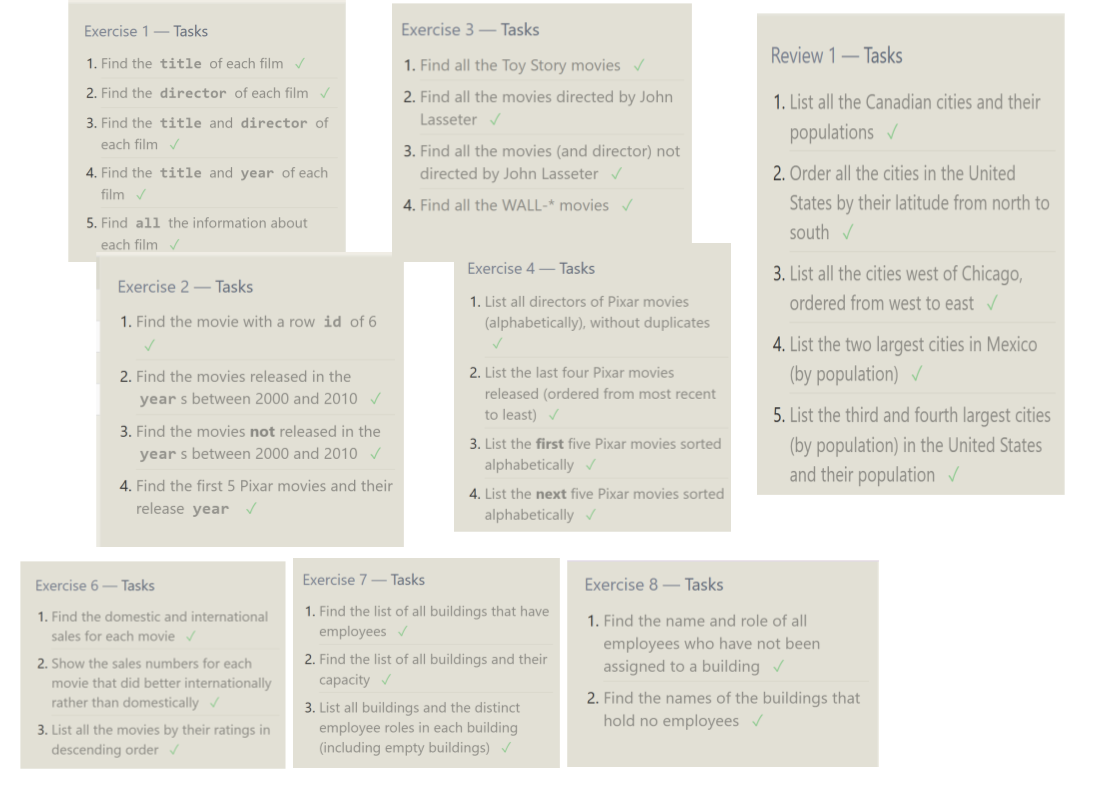
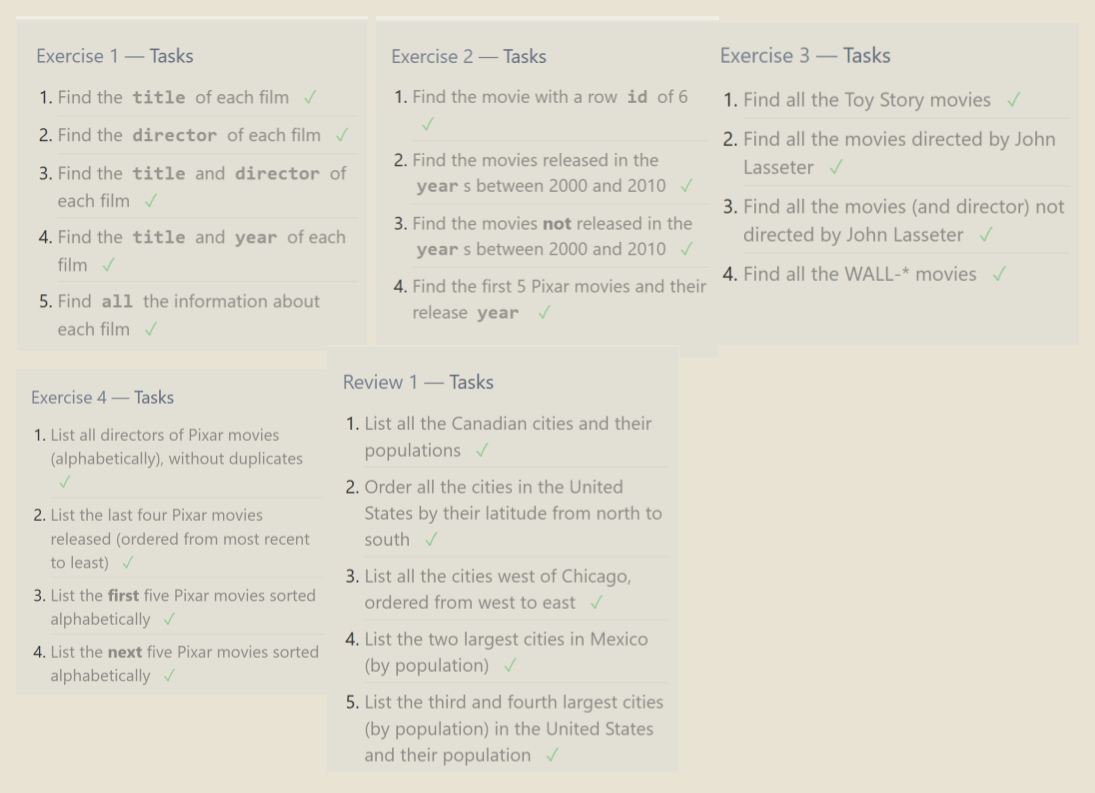
Lagt till ändrade bilder.

diff --git a/labb1-inlaemning.md b/labb1-inlaemning.md
@@ -19,6 +19,8 @@ Skärmdump av databas på MongoDB Atlas med skapad movie-collection med data:
 Skärmdump som visar att ni klarat av första två sidorna på sqlbolt.com:s interaktiva tutorial
 
 ![SQL-bolt](bilder/bild4.png)
+![SQL-bolt](bilder/bild5.png)
+
 
 --- 
 
